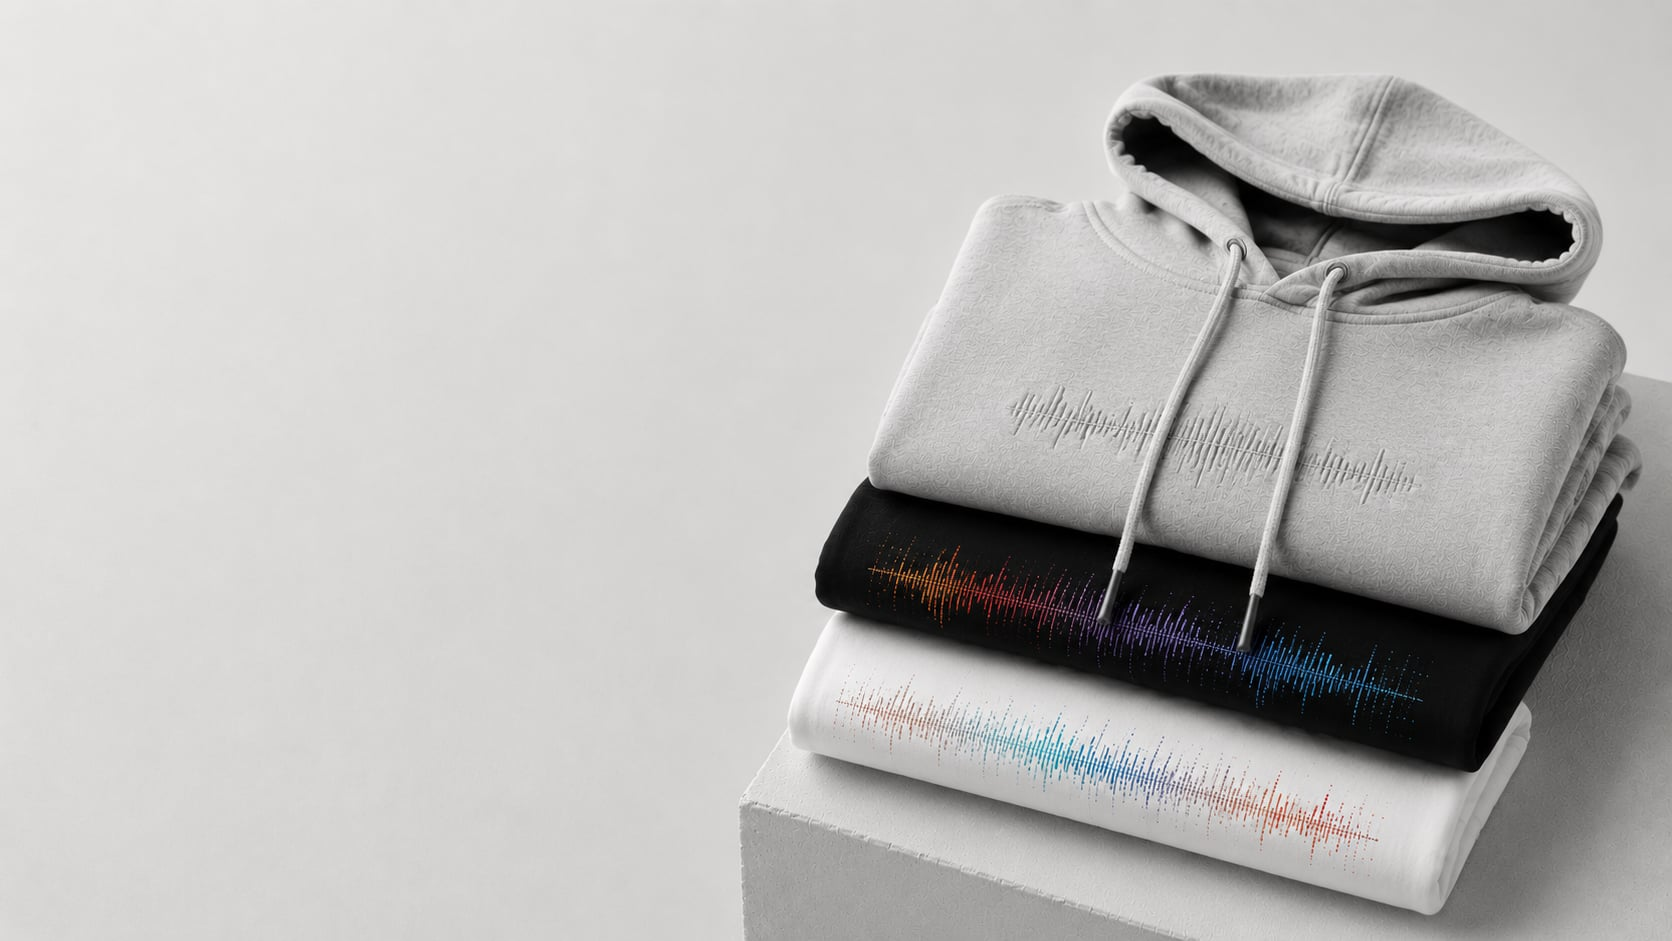
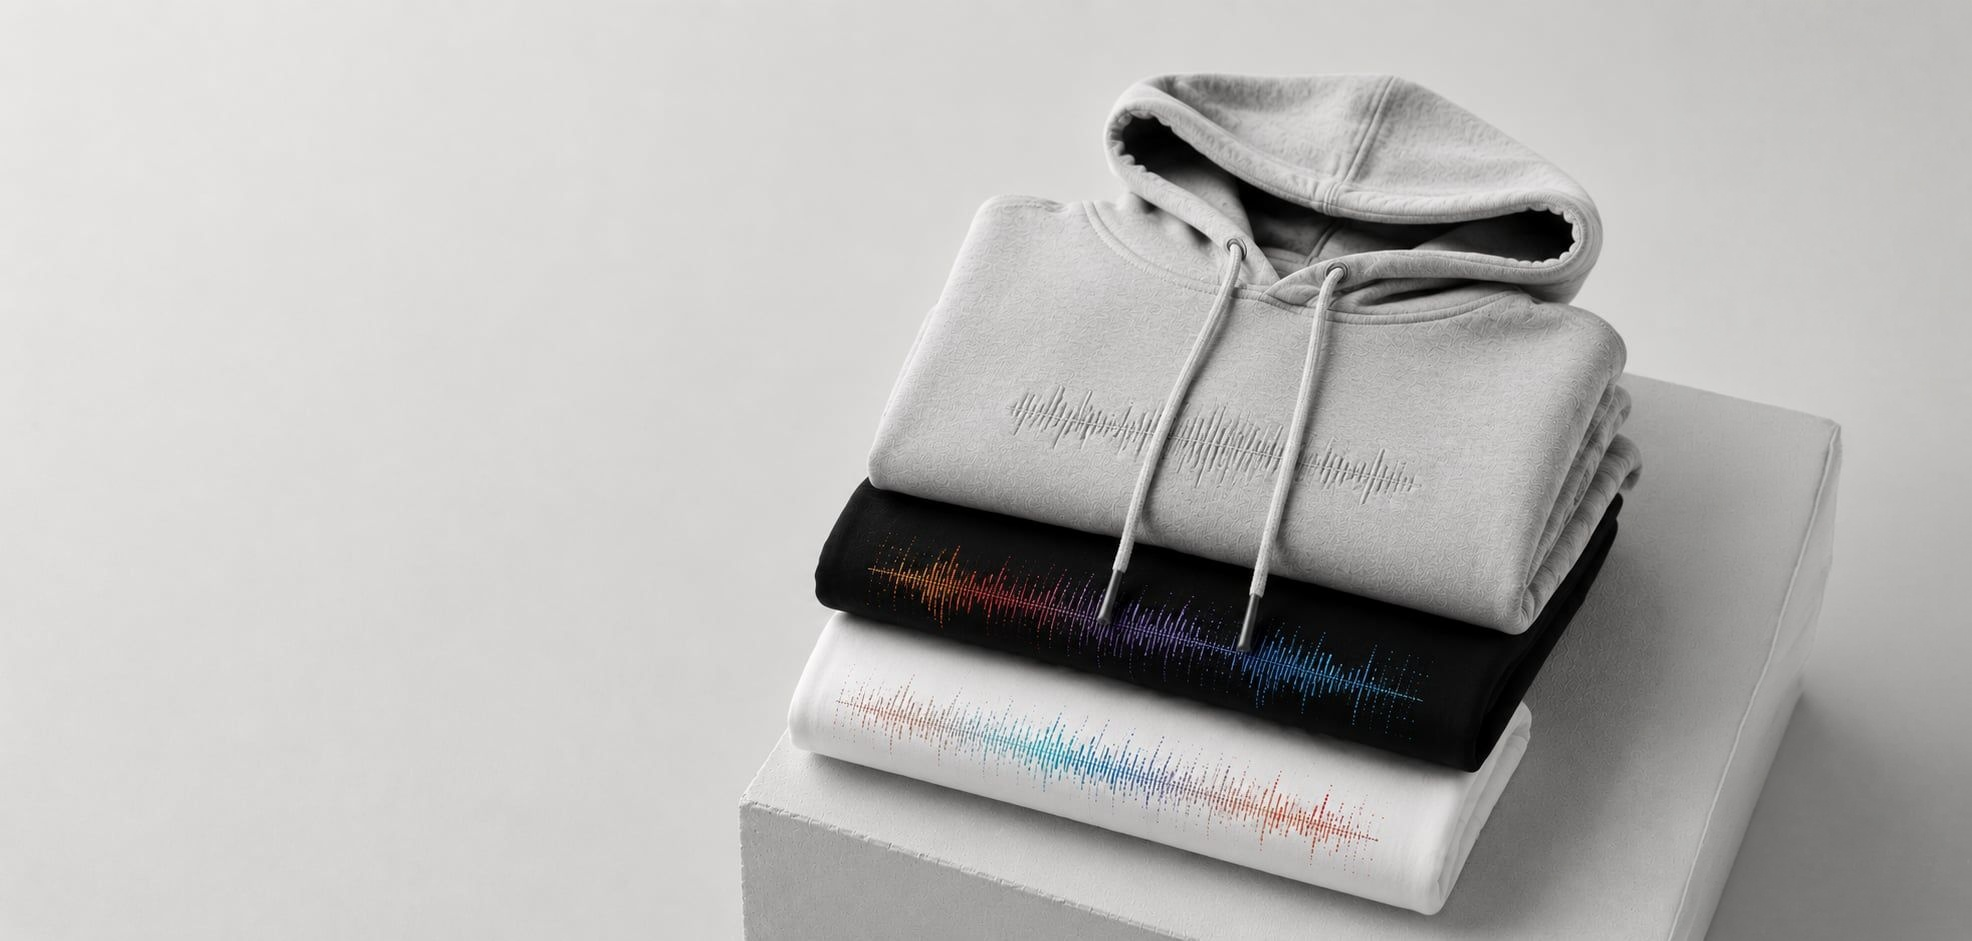
feat(alkimia): mobile responsivo completo + melhorias desktop
Mobile:
- Pill nav: apenas ALKIMIA + hamburger
- Drawer: links + botão orçamento centralizado + redes sociais
- Hero: imagem expandida (Firefly) com object-position 76% — produtos centralizados
- Marquee: mais rápido e compacto
- Segundo vídeo oculto
- Carrossel portfolio mobile (11 fotos, auto-play, setas, swipe, retomada)
- Steps: ícones no lugar dos números com fade-in ao entrar na tela

Desktop:
- Logos: eyebrow centralizado
- Steps: números pequenos + ícones em evidência com efeito fade
- Carrossel portfolio: layout 2 colunas (texto + carrossel)
- Hero: serve webp original; mobile serve jpg expandido via <picture>

diff --git a/clientes/c001-alkimia/p001-site/index.html b/clientes/c001-alkimia/p001-site/index.html
@@ -134,9 +134,9 @@ nav .btn{border-radius:9px;padding:9px 16px;font-size:11px}
   /* foto com height fixo e zoom centralizado nos produtos */
   .hero-media{min-height:0;height:72vw;max-height:380px}
   .hero-media picture{display:block;width:100%;height:100%}
-  .hero-media img{width:100%;height:100%;object-fit:cover;object-position:center;animation:none}
+  .hero-media img{width:100%;height:100%;object-fit:cover;object-position:76% center;animation:none}
   /* fade na base da imagem para casar com a entrada do texto */
-  .hero-media::after{content:'';position:absolute;inset:0;z-index:1;background:linear-gradient(to bottom,transparent 30%,rgba(255,255,255,.55) 68%,var(--paper) 100%);pointer-events:none}
+  .hero-media::after{content:'';position:absolute;inset:0;z-index:1;background:linear-gradient(to bottom,transparent 50%,rgba(255,255,255,.3) 78%,var(--paper) 100%);pointer-events:none}
   .hero-scrim{display:none}
 }
 @media(max-width:880px){
@@ -159,10 +159,16 @@ nav .btn{border-radius:9px;padding:9px 16px;font-size:11px}
 
 /* ---------- clientes marquee ---------- */
 .clients{background:var(--black);padding:62px 0;overflow:hidden}
-.cl-eyebrow{margin-bottom:34px;color:#fff}
+.cl-eyebrow{margin-bottom:34px;color:#fff !important;justify-content:center}
 .cl-eyebrow .ln{background:rgba(255,255,255,.3)}
+@media(max-width:860px){
+  .clients{padding:36px 0}
+  .mq img{height:80px}
+  .cl-eyebrow{margin-bottom:20px}
+}
 .marquee{display:flex;overflow:hidden;-webkit-mask-image:linear-gradient(90deg,transparent,#000 6%,#000 94%,transparent)}
 .mq{display:flex;align-items:center;gap:150px;padding-right:150px;will-change:transform}
+@media(max-width:860px){.mq{gap:60px;padding-right:60px}}
 .mq img{height:132px;width:auto;flex-shrink:0;filter:grayscale(1) brightness(0) invert(1);opacity:.72;transition:opacity .25s}
 .mq img:hover{opacity:1}
 
@@ -179,6 +185,7 @@ h2{font-family:'Archivo',sans-serif;font-weight:700;font-size:clamp(27px,3.6vw,4
 
 /* declaração de posicionamento (o coração) */
 .declar{padding:118px 0 56px}
+@media(max-width:860px){.declar{padding:48px 0 36px}}
 .declar .stmt{font-family:'Archivo',sans-serif;font-weight:400;font-size:clamp(18px,2.1vw,27px);
   line-height:1.3;letter-spacing:-.01em;max-width:22em;color:var(--ink2)}
 .declar .stmt + .stmt{margin-top:24px}
@@ -266,9 +273,12 @@ h2{font-family:'Archivo',sans-serif;font-weight:700;font-size:clamp(27px,3.6vw,4
 @media(max-width:480px){.steps{grid-template-columns:1fr}}
 .step{background:var(--paper);padding:34px 28px 40px;transition:background .25s,transform .25s,box-shadow .25s}
 .step:hover{background:var(--paper2);transform:translateY(-3px);box-shadow:0 12px 30px rgba(0,0,0,.08)}
-.step .sn{font-family:'Archivo',sans-serif;font-weight:700;font-size:40px;color:var(--ink);letter-spacing:-.03em;margin-bottom:18px;line-height:1}
+.step .sn{font-family:'Space Mono',monospace;font-weight:400;font-size:11px;color:var(--mut);letter-spacing:.1em;margin-bottom:10px;line-height:1;text-transform:uppercase}
 .step h3{font-family:'Archivo',sans-serif;font-weight:600;font-size:17px;margin-bottom:9px}
 .step p{color:var(--mut);font-size:14px;line-height:1.55}
+.step-icon{display:flex;align-items:center;justify-content:center;width:48px;height:48px;margin-bottom:16px;color:#444;opacity:0;filter:brightness(3) blur(2px);transition:opacity 1.2s ease,filter 1.2s ease}
+.step-icon.visible{opacity:1;filter:brightness(1) blur(0)}
+.step-icon svg{width:36px;height:36px}
 
 
 /* big cta */
@@ -330,8 +340,36 @@ footer{background:var(--black);color:#f4f4f4;padding:72px 0 36px}
   .vmute{width:44px;height:44px}
   .dvid{max-height:480px}
   #produtos .media{max-height:480px}        /* vídeo 9:16 não fica alto demais no mobile */
+  #produtos .media{display:none}            /* remove o 2º vídeo no mobile */
+  #produtos{padding-top:16px !important;padding-bottom:40px}
 }
 @media(max-width:680px){ .titem{padding:28px 20px} }   /* cards de técnica respiram no mobile */
+
+/* ===== CARROSSEL PORTFOLIO (todos os viewports) ===== */
+.portfolio-mobile{display:block;padding:40px 0 56px}
+.pm-layout{display:grid;grid-template-columns:1fr 1fr;gap:60px;align-items:center}
+.pm-txt h2{font-family:'Archivo',sans-serif;font-weight:700;font-size:clamp(28px,3vw,40px);line-height:1.15;margin:16px 0 14px}
+.pm-txt .lead{color:var(--mut);font-size:15px;line-height:1.6}
+.pm-wrap{position:relative;overflow:hidden;border-radius:10px;width:100%}
+.pm-track{display:flex;width:100%;touch-action:pan-y;transition:transform .4s ease}
+.pm-slide{flex:0 0 100%;width:100%}
+.pm-slide img{width:100%;aspect-ratio:4/3;object-fit:cover;display:block}
+.pm-dots{display:flex;justify-content:center;gap:8px;margin-top:14px}
+.pm-dots span{width:7px;height:7px;border-radius:50%;background:var(--line);transition:background .2s;cursor:pointer}
+.pm-dots span.on{background:var(--ink)}
+.pm-arrow{position:absolute;top:50%;transform:translateY(-50%);width:36px;height:36px;border-radius:50%;background:rgba(255,255,255,.85);border:1px solid var(--hair);display:grid;place-items:center;cursor:pointer;z-index:2;box-shadow:0 2px 8px rgba(0,0,0,.12)}
+.pm-arrow svg{width:16px;height:16px;color:var(--ink)}
+.pm-prev{left:8px}
+.pm-next{right:8px}
+@media(max-width:860px){
+  .portfolio-mobile{padding:16px 0 40px}
+  .pm-layout{grid-template-columns:1fr;gap:0}
+  .pm-txt{display:none}
+  /* esconde carrossel original no mobile */
+  #acabCarousel{display:none}
+  /* steps mobile: esconde número, ícone já visível via base CSS */
+  .step .sn{display:none}
+}
 @media(max-width:480px){ .wrap{padding:0 20px} }       /* margem lateral menor em telas pequenas */
 
 /* ===== A11y (QA accessibility-expert): foco visível, skip link, tap targets de texto ===== */
@@ -469,6 +507,7 @@ a:focus-visible,button:focus-visible,iframe:focus-visible{outline:2px solid var(
 <header class="hero">
   <div class="hero-media">
     <picture>
+      <source media="(max-width:900px)" srcset="assets/hero-slides/hero-2.jpg">
       <source srcset="assets/hero-slides/hero-2.webp" type="image/webp">
       <img src="assets/hero-slides/hero-2.jpg" alt="Moletom cinza, camiseta preta e camiseta branca dobrados, cada peça com estampa de onda sonora colorida">
     </picture>
@@ -568,6 +607,43 @@ a:focus-visible,button:focus-visible,iframe:focus-visible{outline:2px solid var(
   </div>
 </section>
 
+<!-- PORTFOLIO — carrossel de trabalhos -->
+<section class="sec portfolio-mobile" id="portfolio-mobile">
+  <div class="wrap">
+    <div class="pm-layout">
+      <div class="pm-txt">
+        <div class="eyebrow mono"><span class="ln"></span><span>Alguns de nossos trabalhos</span></div>
+        <h2>Feito à mão,<br>entregue com cuidado.</h2>
+        <p class="lead">Uma seleção de peças produzidas para equipes e marcas que confiam na Alkimia.</p>
+      </div>
+      <div class="pm-carousel-col">
+    <div class="pm-wrap">
+    <button class="pm-arrow pm-prev" aria-label="Anterior">
+      <svg viewBox="0 0 24 24" fill="none" stroke="currentColor" stroke-width="2.5" stroke-linecap="round"><polyline points="15 18 9 12 15 6"/></svg>
+    </button>
+    <div class="pm-track">
+      <div class="pm-slide"><img src="assets/portfolio/foto-1.jpg" alt="Trabalho 1"></div>
+      <div class="pm-slide"><img src="assets/portfolio/foto-2.jpg" alt="Trabalho 2"></div>
+      <div class="pm-slide"><img src="assets/portfolio/foto-3.jpg" alt="Trabalho 3"></div>
+      <div class="pm-slide"><img src="assets/portfolio/foto-4.jpg" alt="Trabalho 4"></div>
+      <div class="pm-slide"><img src="assets/portfolio/foto-5.jpg" alt="Trabalho 5"></div>
+      <div class="pm-slide"><img src="assets/portfolio/foto-6.jpg" alt="Trabalho 6"></div>
+      <div class="pm-slide"><img src="assets/portfolio/foto-7.jpg" alt="Trabalho 7"></div>
+      <div class="pm-slide"><img src="assets/portfolio/foto-8.jpg" alt="Trabalho 8"></div>
+      <div class="pm-slide"><img src="assets/portfolio/foto-9.jpg" alt="Trabalho 9"></div>
+      <div class="pm-slide"><img src="assets/portfolio/foto-10.jpg" alt="Trabalho 10"></div>
+      <div class="pm-slide"><img src="assets/portfolio/foto-11.jpg" alt="Trabalho 11"></div>
+    </div>
+    <button class="pm-arrow pm-next" aria-label="Próximo">
+      <svg viewBox="0 0 24 24" fill="none" stroke="currentColor" stroke-width="2.5" stroke-linecap="round"><polyline points="9 18 15 12 9 6"/></svg>
+    </button>
+    </div><!-- /pm-wrap -->
+    <div class="pm-dots" id="pmDots"></div>
+      </div><!-- /pm-carousel-col -->
+    </div><!-- /pm-layout -->
+  </div>
+</section>
+
 <!-- ACABAMENTOS -->
 <section class="sec" id="acabamentos" style="padding-top:0">
   <div class="wrap">
@@ -602,10 +678,10 @@ a:focus-visible,button:focus-visible,iframe:focus-visible{outline:2px solid var(
     <div class="eyebrow mono rv"><span class="n">04</span><span class="ln"></span><span>Como funciona</span></div>
     <h2 class="rv" style="margin-bottom:44px">Do orçamento à entrega.</h2>
     <div class="steps stagger">
-      <div class="step"><div class="sn">01</div><h3>Orçamento</h3><p>Entre em contato pelo WhatsApp e solicite seu orçamento. Atendemos e enviamos a proposta com o mockup do produto para aprovação.</p></div>
-      <div class="step"><div class="sn">02</div><h3>Pagamento</h3><p>Pix ou boleto: 50% no fechamento do pedido e 50% na entrega. Cartão de crédito em até 12x com juros.</p></div>
-      <div class="step"><div class="sn">03</div><h3>Produção</h3><p>Prazo médio de 3 a 4 semanas, com pontualidade no prazo acordado.</p></div>
-      <div class="step"><div class="sn">04</div><h3>Entrega</h3><p>Em São Paulo, por Lalamove no dia em que a produção termina. Demais localidades via correios ou transportadora de preferência do cliente.</p></div>
+      <div class="step"><div class="sn">01</div><span class="step-icon" aria-hidden="true"><svg viewBox="0 0 24 24" fill="none" stroke="currentColor" stroke-width="1.7" stroke-linecap="round" stroke-linejoin="round"><path d="M21 15a2 2 0 0 1-2 2H7l-4 4V5a2 2 0 0 1 2-2h14a2 2 0 0 1 2 2z"/></svg></span><h3>Orçamento</h3><p>Entre em contato pelo WhatsApp e solicite seu orçamento. Atendemos e enviamos a proposta com o mockup do produto para aprovação.</p></div>
+      <div class="step"><div class="sn">02</div><span class="step-icon" aria-hidden="true"><svg viewBox="0 0 24 24" fill="none" stroke="currentColor" stroke-width="1.7" stroke-linecap="round" stroke-linejoin="round"><rect x="1" y="4" width="22" height="16" rx="2" ry="2"/><line x1="1" y1="10" x2="23" y2="10"/></svg></span><h3>Pagamento</h3><p>Pix ou boleto: 50% no fechamento do pedido e 50% na entrega. Cartão de crédito em até 12x com juros.</p></div>
+      <div class="step"><div class="sn">03</div><span class="step-icon" aria-hidden="true"><svg viewBox="0 0 24 24" fill="none" stroke="currentColor" stroke-width="1.7" stroke-linecap="round" stroke-linejoin="round"><circle cx="12" cy="12" r="3"/><path d="M19.4 15a1.65 1.65 0 0 0 .33 1.82l.06.06a2 2 0 0 1-2.83 2.83l-.06-.06a1.65 1.65 0 0 0-1.82-.33 1.65 1.65 0 0 0-1 1.51V21a2 2 0 0 1-4 0v-.09A1.65 1.65 0 0 0 9 19.4a1.65 1.65 0 0 0-1.82.33l-.06.06a2 2 0 0 1-2.83-2.83l.06-.06A1.65 1.65 0 0 0 4.68 15a1.65 1.65 0 0 0-1.51-1H3a2 2 0 0 1 0-4h.09A1.65 1.65 0 0 0 4.6 9a1.65 1.65 0 0 0-.33-1.82l-.06-.06a2 2 0 0 1 2.83-2.83l.06.06A1.65 1.65 0 0 0 9 4.68a1.65 1.65 0 0 0 1-1.51V3a2 2 0 0 1 4 0v.09a1.65 1.65 0 0 0 1 1.51 1.65 1.65 0 0 0 1.82-.33l.06-.06a2 2 0 0 1 2.83 2.83l-.06.06A1.65 1.65 0 0 0 19.4 9a1.65 1.65 0 0 0 1.51 1H21a2 2 0 0 1 0 4h-.09a1.65 1.65 0 0 0-1.51 1z"/></svg></span><h3>Produção</h3><p>Prazo médio de 3 a 4 semanas, com pontualidade no prazo acordado.</p></div>
+      <div class="step"><div class="sn">04</div><span class="step-icon" aria-hidden="true"><svg viewBox="0 0 24 24" fill="none" stroke="currentColor" stroke-width="1.7" stroke-linecap="round" stroke-linejoin="round"><rect x="1" y="3" width="15" height="13" rx="1"/><path d="M16 8h4l3 5v3h-7V8z"/><circle cx="5.5" cy="18.5" r="2.5"/><circle cx="18.5" cy="18.5" r="2.5"/></svg></span><h3>Entrega</h3><p>Em São Paulo, por Lalamove no dia em que a produção termina. Demais localidades via correios ou transportadora de preferência do cliente.</p></div>
     </div>
   </div>
 </section>
@@ -719,7 +795,8 @@ if(!RM){document.querySelectorAll('.btn').forEach(b=>{
   wrap.addEventListener('pointermove',(e)=>{ if(hovering) offset+=e.movementX; });
   function loop(now){
     const dt=Math.min((now-last)/1000,0.05); last=now;
-    if(!hovering) offset-=55*dt;            // auto-scroll p/ esquerda (~55px/s)
+    const speed=window.innerWidth<=860?110:55;
+    if(!hovering) offset-=speed*dt;         // mobile: 110px/s; desktop: 55px/s
     if(half){ while(offset<=-half) offset+=half; while(offset>0) offset-=half; } // loop sem emenda
     mq.style.transform='translateX('+offset.toFixed(2)+'px)';
     requestAnimationFrame(loop);
@@ -848,6 +925,66 @@ if(!RM){document.querySelectorAll('.btn').forEach(b=>{
 
   /* pequena pausa inicial antes de começar */
   setTimeout(typeTitle, 700);
+})();
+
+/* ===== Carrossel portfolio mobile — auto-play + setas + retomada ===== */
+(function(){
+  const track = document.querySelector('.pm-track');
+  if(!track) return;
+  const slides = track.querySelectorAll('.pm-slide');
+  const dotsWrap = document.getElementById('pmDots');
+  const btnPrev = document.querySelector('.pm-prev');
+  const btnNext = document.querySelector('.pm-next');
+  if(!slides.length) return;
+  let cur = 0, autoTimer = null, resumeTimer = null;
+  const INTERVAL = 3000, RESUME_DELAY = 4000;
+
+  slides.forEach((_,i)=>{
+    const d = document.createElement('span');
+    if(i===0) d.classList.add('on');
+    d.addEventListener('click',()=>{ pauseAuto(); go(i); scheduleResume(); });
+    dotsWrap.appendChild(d);
+  });
+
+  function go(n){
+    cur = (n + slides.length) % slides.length;
+    const w = track.parentElement.offsetWidth;
+    track.style.transform = 'translateX(-'+(cur*w)+'px)';
+    dotsWrap.querySelectorAll('span').forEach((d,i)=>d.classList.toggle('on',i===cur));
+  }
+  function startAuto(){ autoTimer = setInterval(()=>go(cur+1), INTERVAL); }
+  function pauseAuto(){ clearInterval(autoTimer); autoTimer=null; }
+  function scheduleResume(){ clearTimeout(resumeTimer); resumeTimer=setTimeout(startAuto, RESUME_DELAY); }
+
+  // setas
+  btnPrev && btnPrev.addEventListener('click',()=>{ pauseAuto(); go(cur-1); scheduleResume(); });
+  btnNext && btnNext.addEventListener('click',()=>{ pauseAuto(); go(cur+1); scheduleResume(); });
+
+  // swipe
+  let sx=0;
+  track.addEventListener('touchstart',e=>{ sx=e.touches[0].clientX; pauseAuto(); },{passive:true});
+  track.addEventListener('touchend',e=>{
+    const dx=e.changedTouches[0].clientX-sx;
+    if(Math.abs(dx)>40) go(cur+(dx<0?1:-1));
+    scheduleResume();
+  });
+
+  startAuto();
+})();
+
+/* ===== Step icons — fade-in com brilho ao entrar na tela (mobile) ===== */
+(function(){
+  const icons = document.querySelectorAll('.step-icon');
+  if(!icons.length) return;
+  const obs = new IntersectionObserver(entries=>{
+    entries.forEach((e,i)=>{
+      if(e.isIntersecting){
+        setTimeout(()=>e.target.classList.add('visible'), i*180);
+        obs.unobserve(e.target);
+      }
+    });
+  },{threshold:0.3});
+  icons.forEach(ic=>obs.observe(ic));
 })();
 </script>
 </body>